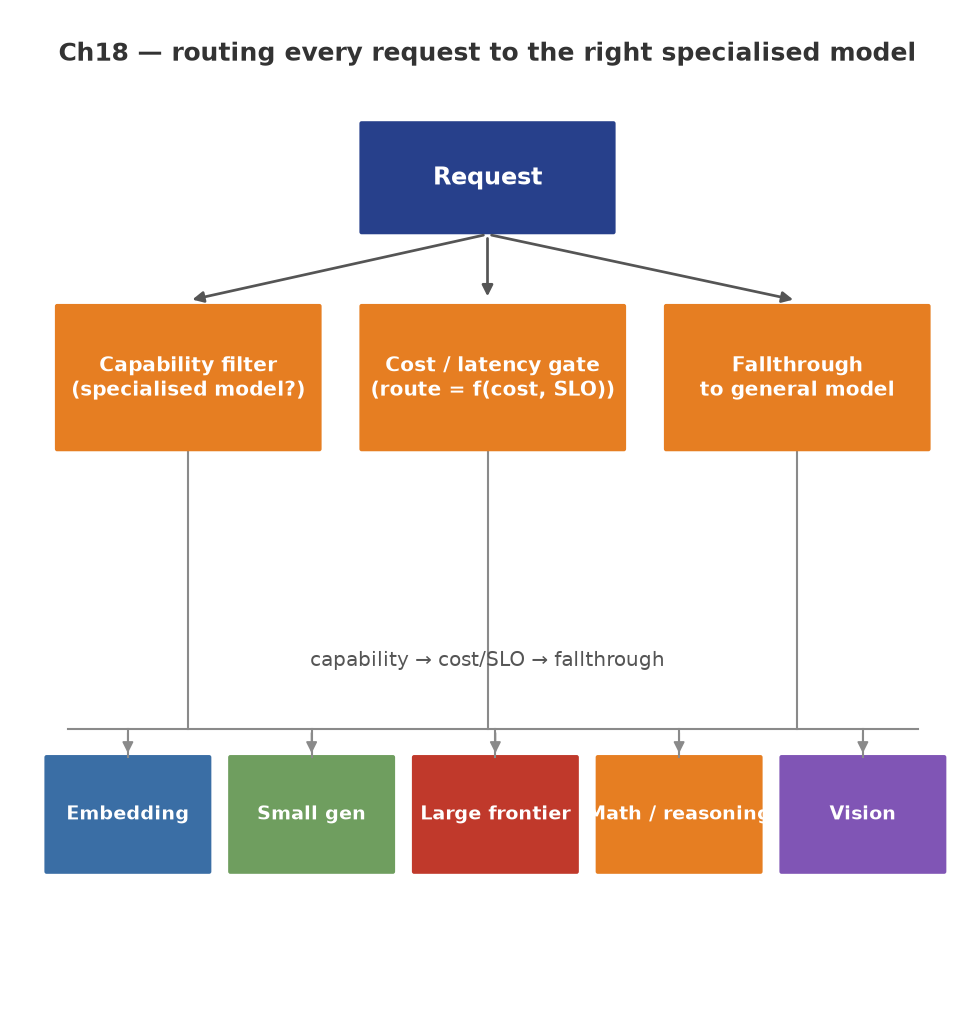
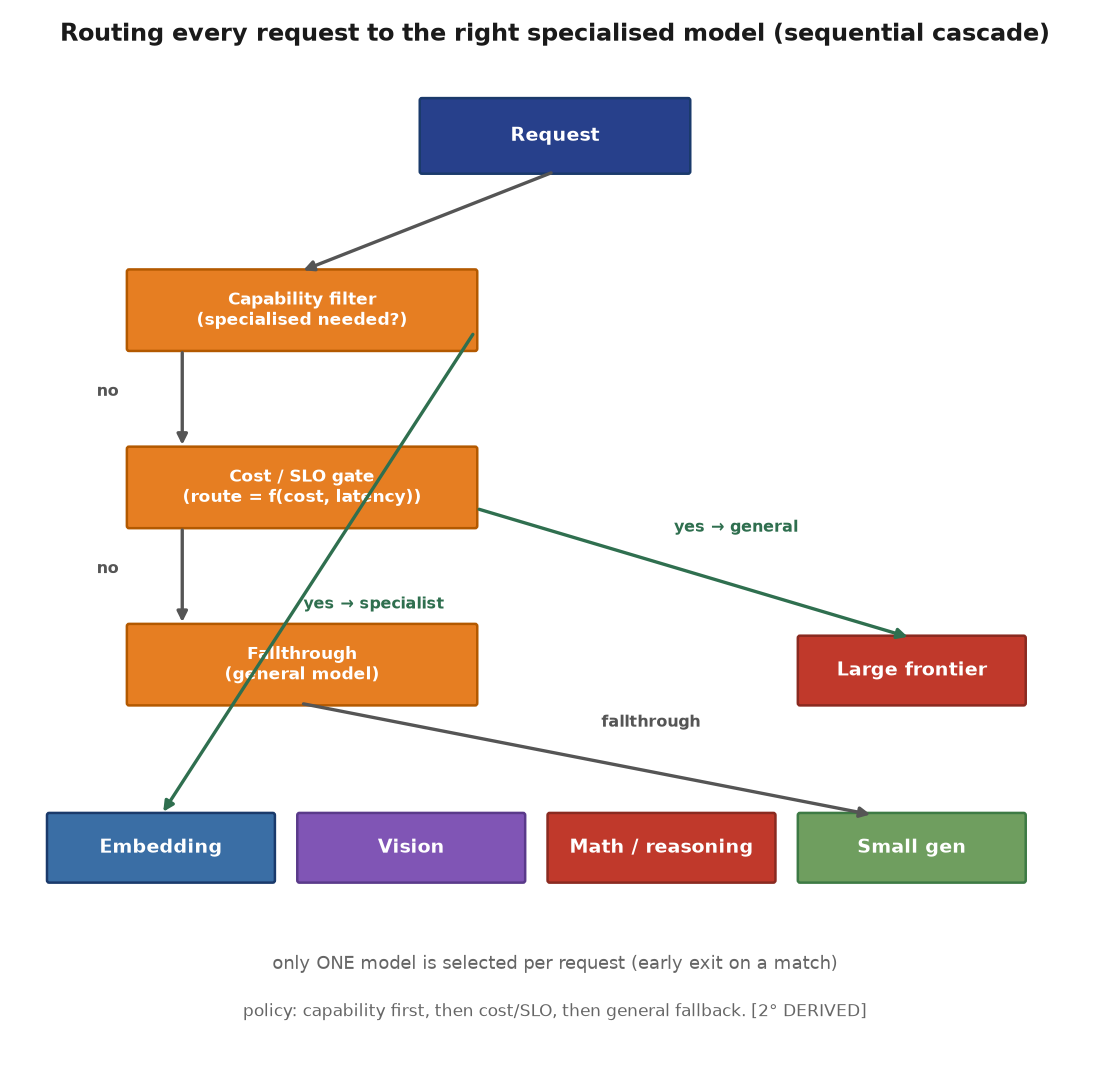
Fix Fig 18.1: replace parallel fan-out with correct sequential routing cascade (capability -> cost/SLO -> fallthrough, early-exit, single model per request)

diff --git a/render/fig_ch18_routing.py b/render/fig_ch18_routing.py
@@ -1,0 +1,65 @@
+import matplotlib
+matplotlib.use('Agg')
+import matplotlib.pyplot as plt
+from matplotlib.patches import FancyBboxPatch, FancyArrowPatch
+
+# ---- fig-18-1801: Sequential model-routing decision tree ----
+# The correct policy is a SEQUENTIAL cascade with early exit, not a parallel
+# fan-out:  Request -> capability filter -> (yes: specialist model) / (no) ->
+# cost+SLO gate -> (yes: general model) / (no) -> fallthrough general model.
+fig, ax = plt.subplots(figsize=(7.4, 7.2))
+ax.set_xlim(0, 20); ax.set_ylim(0, 17); ax.axis('off')
+
+ax.set_title('Routing every request to the right specialised model (sequential cascade)',
+             fontsize=11.5, fontweight='bold', ha='center', color='#1a1a1a')
+
+def box(x, y, w, h, label, fc, ec, fs=9, tc='white'):
+    ax.add_patch(FancyBboxPatch((x, y), w, h, boxstyle='round,pad=0.04', fc=fc, ec=ec, lw=1.2))
+    ax.text(x+w/2, y+h/2, label, ha='center', va='center', fontsize=fs, color=tc, fontweight='bold')
+
+# Root
+box(7.5, 15.0, 5.0, 1.2, 'Request', '#27408b', '#1a3a6b')
+# Gate 1: capability
+box(2.0, 12.0, 6.5, 1.3, 'Capability filter\n(specialised needed?)', '#e67e22', '#b35900', 8)
+# Gate 2: cost/SLO
+box(2.0, 9.0, 6.5, 1.3, 'Cost / SLO gate\n(route = f(cost, latency))', '#e67e22', '#b35900', 8)
+# Fallthrough
+box(2.0, 6.0, 6.5, 1.3, 'Fallthrough\n(general model)', '#e67e22', '#b35900', 8)
+
+# Specialist models (fed by gate1 'yes' on the right)
+box(0.5, 3.0, 4.2, 1.1, 'Embedding', '#3a6ea5', '#1a3a6b')
+box(5.2, 3.0, 4.2, 1.1, 'Vision', '#8055b5', '#5a3a8a')
+box(9.9, 3.0, 4.2, 1.1, 'Math / reasoning', '#c0392b', '#8a2a20')
+# General models (fed by gate2 'yes' / fallthrough)
+box(14.6, 3.0, 4.2, 1.1, 'Small gen', '#6f9e5f', '#3d7a44')
+# Large frontier (top-right, fed by gate2 'yes')
+box(14.6, 6.0, 4.2, 1.1, 'Large frontier', '#c0392b', '#8a2a20')
+
+# Sequential west-to-east flow with yes/no branches
+def arrow(x1,y1,x2,y2,color='#555',lab=None,lx=None,ly=None,lc=None):
+    ax.annotate('', xy=(x2,y2), xytext=(x1,y1), arrowprops=dict(arrowstyle='-|>', lw=1.6, color=color))
+    if lab:
+        ax.text(lx if lx else (x1+x2)/2, ly if ly else ((y1+y2)/2)+0.2, lab, fontsize=7.5,
+                color=lc if lc else color, ha='center', fontweight='bold')
+
+# Request -> gate1
+arrow(10.0, 15.0, 5.2, 13.3)
+# gate1 -> gate2 (the 'no' path, left side) and gate1 -> specialist (the 'yes' path, right)
+arrow(3.0, 12.0, 3.0, 10.3, color='#555', lab='no', lx=1.6, ly=11.2)
+arrow(8.5, 12.3, 2.6, 4.1, color='#2f6f4f', lab='yes → specialist', lx=6.6, ly=7.6, lc='#2f6f4f')
+# gate2 -> gate3 (no) and gate2 -> general (yes)
+arrow(3.0, 9.0, 3.0, 7.3, color='#555', lab='no', lx=1.6, ly=8.2)
+arrow(8.5, 9.3, 16.7, 7.1, color='#2f6f4f', lab='yes → general', lx=13.4, ly=8.9, lc='#2f6f4f')
+# gate3 -> fallthrough general
+arrow(5.2, 6.0, 16.0, 4.1, color='#555', lab='fallthrough', lx=11.8, ly=5.6)
+
+# annotate: only one model is selected per request
+ax.text(10.0, 1.5, 'only ONE model is selected per request (early exit on a match)',
+        fontsize=8.5, ha='center', color='#666')
+ax.text(10.0, 0.7, 'policy: capability first, then cost/SLO, then general fallback. [2° DERIVED]',
+        fontsize=8, ha='center', color='#666')
+
+plt.tight_layout()
+plt.savefig('design/manuscript/chapter-18/figures/fig-18-1801.png', dpi=150)
+plt.close()
+print('wrote fig-18-1801 (sequential decision tree)')
